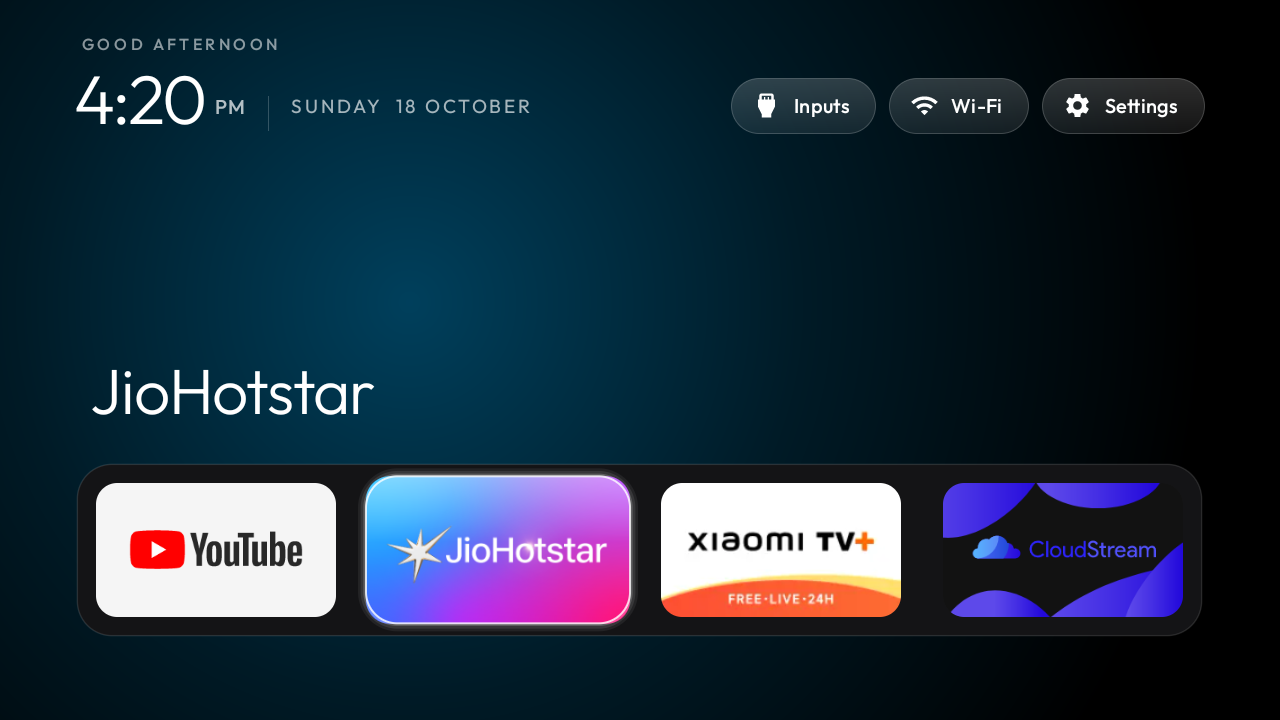
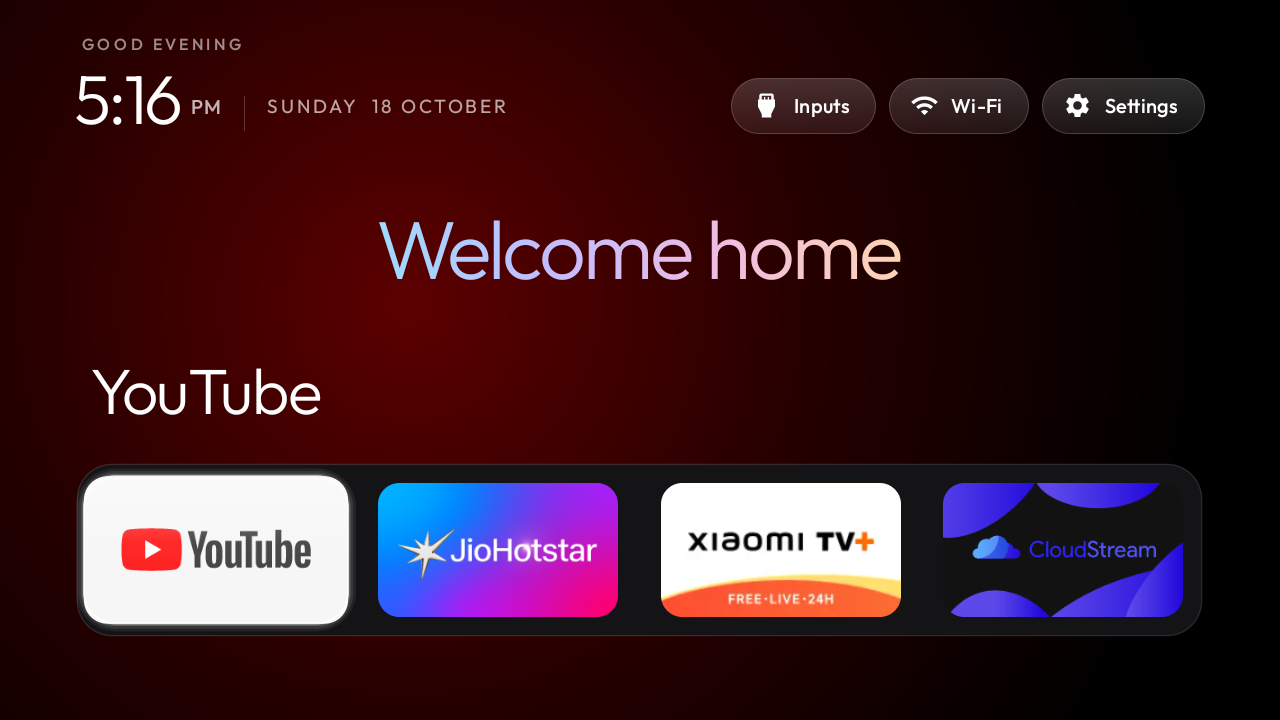
Add pastel Home greeting with staggered word entrance

diff --git a/launcher/app/src/main/java/com/gathin/tvhome/WelcomeView.java b/launcher/app/src/main/java/com/gathin/tvhome/WelcomeView.java
@@ -1,0 +1,153 @@
+package com.gathin.tvhome;
+
+import android.content.Context;
+import android.animation.ValueAnimator;
+import android.graphics.LinearGradient;
+import android.graphics.Canvas;
+import android.graphics.Paint;
+import android.graphics.Shader;
+import android.text.TextUtils;
+import android.util.AttributeSet;
+import android.view.View;
+import android.view.animation.DecelerateInterpolator;
+import android.view.animation.LinearInterpolator;
+import android.text.TextPaint;
+import java.util.ArrayList;
+import java.util.List;
+import java.util.regex.Matcher;
+import java.util.regex.Pattern;
+
+/** A pastel greeting with one finite entrance animation; no idle animation or background work. */
+public class WelcomeView extends View {
+    private final float density;
+    private boolean shown;
+    private float restingTop;
+    private final TextPaint letteringPaint = new TextPaint(Paint.ANTI_ALIAS_FLAG);
+    private final String message;
+    private String lettering;
+    private float textLeft;
+    private float baseline;
+    private static final float WORD_FADE_MS = 900f;
+    private static final float WORD_DELAY_MS = 220f;
+    private final List<Word> words = new ArrayList<>();
+    private final ValueAnimator wordEntrance = ValueAnimator.ofFloat(0f, 1f);
+    private final DecelerateInterpolator wordEase = new DecelerateInterpolator(1.8f);
+    private float wordProgress = 1f;
+
+    private static final class Word {
+        final int start, end;
+        final float offset;
+        Word(int start, int end, float offset) {
+            this.start = start; this.end = end; this.offset = offset;
+        }
+    }
+
+    public WelcomeView(Context context, AttributeSet attrs) {
+        super(context, attrs);
+        density = getResources().getDisplayMetrics().density;
+        message = getResources().getString(R.string.welcome_home);
+        lettering = message;
+        letteringPaint.setTypeface(getResources().getFont(R.font.outfit));
+        letteringPaint.setFontVariationSettings("'wght' 300");
+        letteringPaint.setTextSize(62f * getResources().getDisplayMetrics().scaledDensity);
+        letteringPaint.setLetterSpacing(-.035f);
+        letteringPaint.setColor(0xFFFFFFFF);
+        setContentDescription(message);
+        setWillNotDraw(false);
+        // Rasterise only this small text layer for consistent gradients on the tested TV.
+        // Translation and alpha remain normal view animations; nothing repaints while idle.
+        setLayerType(View.LAYER_TYPE_SOFTWARE, null);
+        wordEntrance.setInterpolator(new LinearInterpolator());
+        wordEntrance.addUpdateListener(animation -> {
+            wordProgress = (float) animation.getAnimatedValue();
+            invalidate();
+        });
+    }
+
+    @Override protected void onMeasure(int widthSpec, int heightSpec) {
+        Paint.FontMetrics font = letteringPaint.getFontMetrics();
+        setMeasuredDimension(resolveSize((int) Math.ceil(letteringPaint.measureText(message)), widthSpec),
+                resolveSize((int) Math.ceil(font.descent - font.ascent), heightSpec));
+    }
+
+    @Override protected void onSizeChanged(int width, int height, int oldWidth, int oldHeight) {
+        super.onSizeChanged(width, height, oldWidth, oldHeight);
+        lettering = TextUtils.ellipsize(message, letteringPaint, width, TextUtils.TruncateAt.END).toString();
+        float textWidth = Math.max(1f, letteringPaint.measureText(lettering));
+        textLeft = (width - textWidth) / 2f;
+        Paint.FontMetrics font = letteringPaint.getFontMetrics();
+        baseline = (height - font.ascent - font.descent) / 2f;
+        words.clear();
+        Matcher word = Pattern.compile("\\S+").matcher(lettering);
+        while (word.find()) {
+            words.add(new Word(word.start(), word.end(), letteringPaint.measureText(lettering, 0, word.start())));
+        }
+        letteringPaint.setShader(new LinearGradient(textLeft, 0, textLeft + textWidth, 0,
+                new int[]{0xFF9EDBFF, 0xFFC4BCFF, 0xFFF0BDE0, 0xFFFFD4B3},
+                null, Shader.TileMode.CLAMP));
+    }
+
+    @Override protected void onDraw(Canvas canvas) {
+        if (wordProgress >= 1f) {
+            canvas.drawText(lettering, textLeft, baseline, letteringPaint);
+            return;
+        }
+        float elapsed = wordProgress * (WORD_FADE_MS + Math.max(0, words.size() - 1) * WORD_DELAY_MS);
+        for (int i = 0; i < words.size(); i++) {
+            Word word = words.get(i);
+            float fraction = Math.max(0f, Math.min(1f, (elapsed - i * WORD_DELAY_MS) / WORD_FADE_MS));
+            float eased = wordEase.getInterpolation(fraction);
+            letteringPaint.setAlpha(Math.round(255f * eased));
+            canvas.drawText(lettering, word.start, word.end, textLeft + word.offset,
+                    baseline + 8f * density * (1f - eased), letteringPaint);
+        }
+        letteringPaint.setAlpha(255);
+    }
+
+    void dump(java.io.PrintWriter writer) {
+        writer.println("  Welcome shown=" + shown + " alpha=" + getAlpha() + " text=" + lettering
+                + " width=" + getWidth() + " top=" + getTranslationY()
+                + " paintAlpha=" + letteringPaint.getAlpha() + " wordProgress=" + wordProgress
+                + " wordAnimating=" + wordEntrance.isRunning());
+    }
+
+    void revealAt(float top) {
+        if (shown) {
+            if (Math.abs(top - restingTop) > .5f) setTranslationY(top);
+            restingTop = top;
+            return;
+        }
+        shown = true;
+        restingTop = top;
+        animate().cancel();
+        wordEntrance.cancel();
+        wordProgress = ValueAnimator.areAnimatorsEnabled() ? 0f : 1f;
+        if (wordProgress == 0f) {
+            wordEntrance.setDuration((long) (WORD_FADE_MS + Math.max(0, words.size() - 1) * WORD_DELAY_MS));
+            wordEntrance.start();
+        } else invalidate();
+        setVisibility(View.VISIBLE);
+        setAlpha(0f);
+        setTranslationY(top + 12f * density);
+        animate().alpha(1f).translationY(top).setDuration(1100)
+                .setInterpolator(new DecelerateInterpolator(1.8f)).withEndAction(null).start();
+    }
+
+    void hide() {
+        if (!shown) return;
+        shown = false;
+        wordEntrance.cancel();
+        animate().cancel();
+        animate().alpha(0f).setDuration(180).withEndAction(() -> {
+            if (!shown) setVisibility(View.INVISIBLE);
+        }).start();
+    }
+
+    void reset() {
+        shown = false;
+        wordEntrance.cancel();
+        animate().cancel();
+        setAlpha(0f);
+        setVisibility(View.INVISIBLE);
+    }
+}

diff --git a/launcher/app/src/main/java/com/gathin/tvhome/MainActivity.java b/launcher/app/src/main/java/com/gathin/tvhome/MainActivity.java
@@ -62,6 +62,8 @@ public class MainActivity extends Activity implements AppAdapter.TileListener {
     private TrackedGlassView playNextGlass;
     private AmbientView ambient;
     private TextView heroName;
+    private WelcomeView welcome;
+    private float welcomeTop;
     private boolean heroShown;
     private TextView greeting;
     private TextView btnWifi;
@@ -136,6 +138,7 @@ public class MainActivity extends Activity implements AppAdapter.TileListener {
         playNextGlass = findViewById(R.id.playNextGlass);
         ambient = findViewById(R.id.ambient);
         heroName = findViewById(R.id.heroName);
+        welcome = findViewById(R.id.welcome);
         greeting = findViewById(R.id.greeting);
         btnWifi = findViewById(R.id.btnWifi);
 
@@ -203,7 +206,10 @@ public class MainActivity extends Activity implements AppAdapter.TileListener {
                 highlight.scrolled(dy);
             }
             @Override public void onScrollStateChanged(@NonNull RecyclerView recyclerView, int state) {
-                if (state == RecyclerView.SCROLL_STATE_IDLE) finishOriginalHandoff();
+                if (state == RecyclerView.SCROLL_STATE_IDLE) {
+                    finishOriginalHandoff();
+                    if (homeResumed && focusedSection == 0 && heroShown) welcome.revealAt(welcomeTop);
+                }
             }
         });
 
@@ -257,6 +263,7 @@ public class MainActivity extends Activity implements AppAdapter.TileListener {
         focusedSection = -1;
         heroShown = false;
         heroName.setAlpha(0f);
+        welcome.reset();
         ambient.setAlpha(0f);
         adapter.reload();
         grid.scheduleLayoutAnimation();
@@ -301,6 +308,7 @@ public class MainActivity extends Activity implements AppAdapter.TileListener {
         grid.removeCallbacks(revealWatchNext);
         pendingOriginalCard = null;
         highlight.pause();
+        welcome.reset();
         playNextHighlight.pause();
         if (pendingScrollFocus != null) { grid.removeOnScrollListener(pendingScrollFocus); pendingScrollFocus = null; }
         focusRequest++;
@@ -405,6 +413,14 @@ public class MainActivity extends Activity implements AppAdapter.TileListener {
     private void showHero(int position, float dockTopInRoot) {
         String label = adapter.labelAt(position);
         float y = dockTopInRoot - 14 * density - 26 * density - heroName.getHeight();
+        Rect viewport = new Rect(0, 0, grid.getWidth(), grid.getHeight());
+        root.offsetDescendantRectToMyCoords(grid, viewport);
+        float spaceTop = viewport.top + 12f * density;
+        float spaceBottom = y - 18f * density;
+        if (spaceBottom - spaceTop >= welcome.getHeight()) {
+            welcomeTop = spaceTop + (spaceBottom - spaceTop - welcome.getHeight()) / 2f;
+            if (grid.getScrollState() == RecyclerView.SCROLL_STATE_IDLE) welcome.revealAt(welcomeTop);
+        } else welcome.hide();
         boolean changed = !label.contentEquals(heroName.getText());
 
         if (!heroShown) {
@@ -430,6 +446,7 @@ public class MainActivity extends Activity implements AppAdapter.TileListener {
     }
 
     private void hideHero() {
+        welcome.hide();
         if (!heroShown) return;
         heroShown = false;
         heroName.animate().alpha(0f).setDuration(160).start();
@@ -445,6 +462,7 @@ public class MainActivity extends Activity implements AppAdapter.TileListener {
         super.dump(prefix, fd, writer, args);
         highlight.dump(writer);
         playNextHighlight.dump(writer);
+        welcome.dump(writer);
     }
 
     // ---- navigation ------------------------------------------------------------------------------

diff --git a/docs/CUSTOM-FORK.md b/docs/CUSTOM-FORK.md
@@ -6,6 +6,17 @@ contribution guide intentionally excludes blur, network access and content feeds
 are maintained on `custom/tv-home`; the upstream contribution is limited to app organisation.
 The original contribution guide and licences remain unchanged.
 
+Version 3.5 adds a **Welcome home** greeting in the dock's empty shelf space. Light, licensed
+Outfit lettering uses a pastel gradient and a finite fade/rise: Welcome appears first, with
+home following 220 ms later. Each word takes 900 ms to settle. It hides in Play Next
+and the app grid. The small text layer is rasterised for older TV GPUs; there is no looping
+animation, network request or background worker. The greeting is a nonfocusable decoration and
+does not alter D-pad targets. Its text is `welcome_home` in `res/values/strings.xml`.
+The entrance waits for the dock's vertical return to finish. Real-TV checks confirmed visible
+gradient lettering, completion of the word animation, cancellation while hidden in Play Next,
+return to the dock, and preservation of saved Home choices. A reduced-motion/disabled-animation
+system setting leaves the words fully visible immediately.
+
 ## Build
 
 Use JDK 17, SDK platform 34 and build-tools 34.0.0. Gradle downloads the project's pinned

diff --git a/README.md b/README.md
@@ -44,6 +44,10 @@ step with screenshots from the TV. If you'd rather do it by hand, the pieces are
 A small native Android TV home screen (`com.gathin.tvhome`), built for sets with 1 GB of RAM:
 
 - A dark background with soft light sampled from the focused app or Play Next artwork.
+- **Welcome home** sits above the dock shelf in light Outfit lettering, with a pastel
+  blue–lilac–rose–peach gradient and a slow fade-and-rise entrance, staggered word by word.
+  It rests after the entrance
+  and fades away when scrolling into Play Next or the app grid.
 - A dock at the bottom in a lighter rounded band with the four apps you choose. The shelf above
   shows the focused dock app's name in large type with an ambient glow sampled from its banner.
   Press Down to scroll to large **Play Next** cards, followed by the rest of your apps in a grid.
